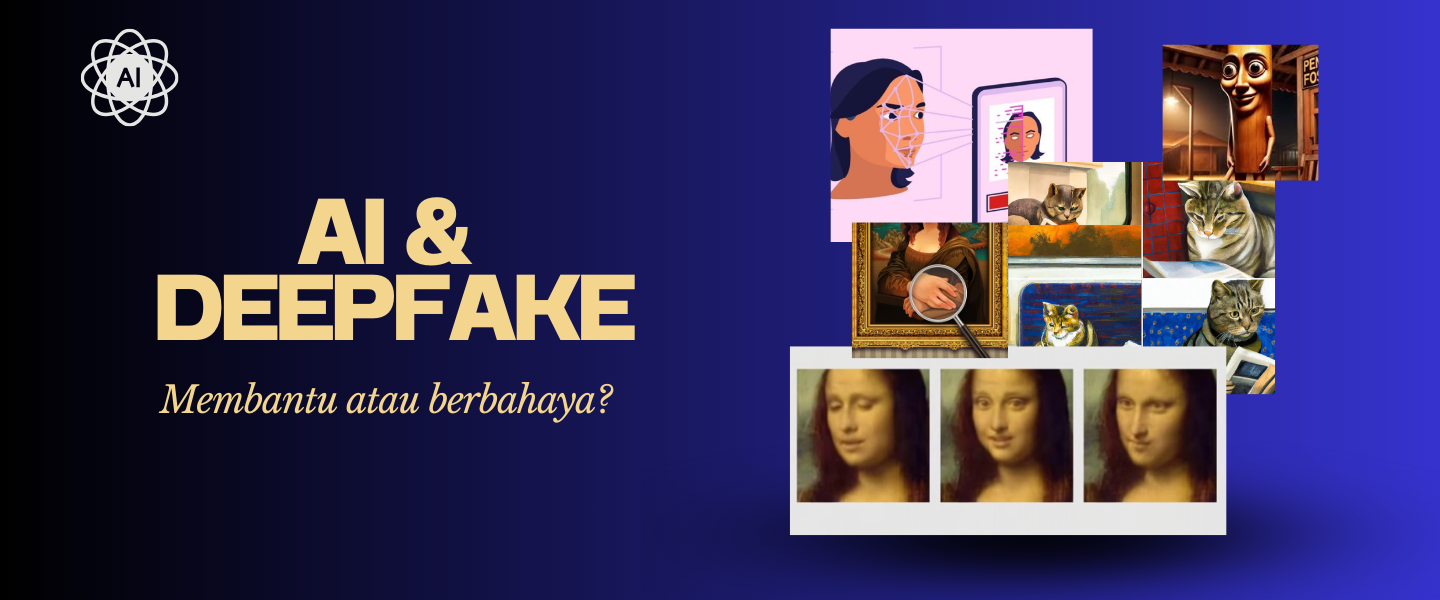
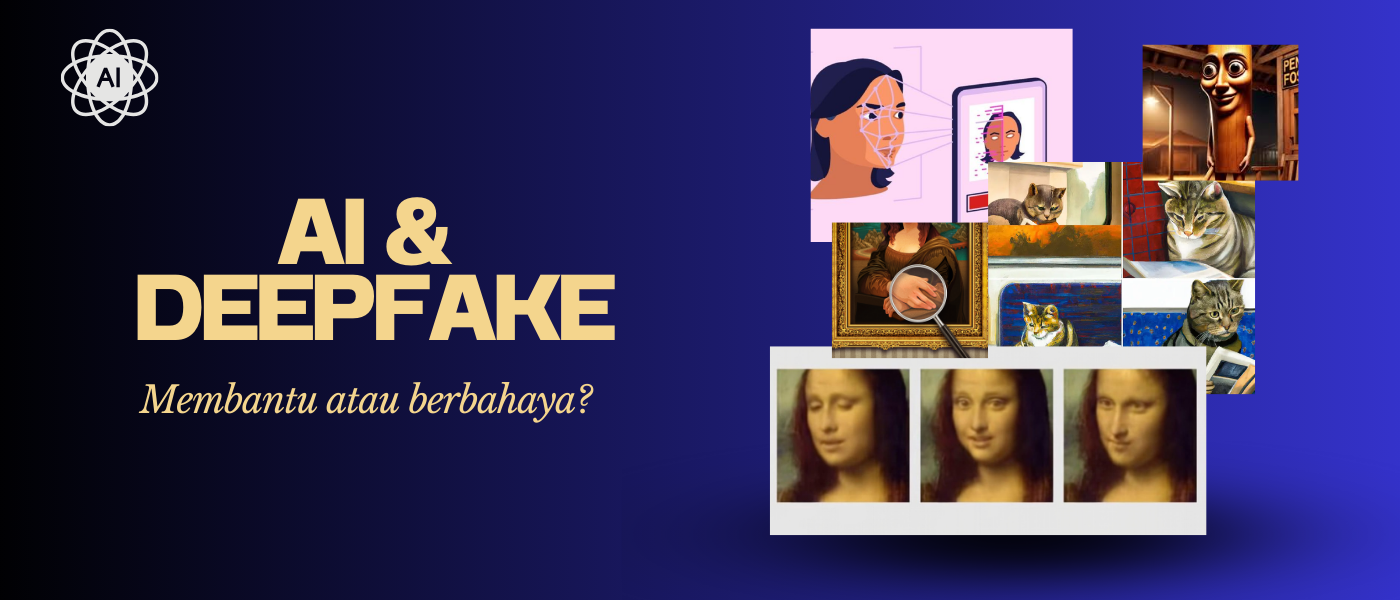
fixed

diff --git a/index.html b/index.html
@@ -2,7 +2,7 @@
 <html lang="en">
 <head>
     <meta charset="UTF-8">
-    <meta name="viewport" content="width=device-width, initial-scale=1.0">
+    <meta name="viewport" content="1440, initial-scale=1.0">
     <title>AI</title>
     <link href="https://cdn.jsdelivr.net/npm/bootstrap@5.0.2/dist/css/bootstrap.min.css" rel="stylesheet" integrity="sha384-EVSTQN3/azprG1Anm3QDgpJLIm9Nao0Yz1ztcQTwFspd3yD65VohhpuuCOmLASjC" crossorigin="anonymous">
     <link href="https://cdn.jsdelivr.net/npm/bootstrap-icons@1.10.5/font/bootstrap-icons.css" rel="stylesheet">
@@ -32,7 +32,7 @@
     </div>
 
     <div class="hero">
-        <img src="AI & deepfake.png" alt="" srcset="">
+        <img src="AI & deepfake.png" alt="" srcset="" style="width: 100%;">
     </div>
 
     <section class="content-section" id="tentang">
@@ -93,7 +93,7 @@
     <section class="content-section" id="solusi">
         <h2 class="section-title">Solusi AI</h2>
         <div class="section-content">
-            <p>Untuk mengatasi risiko penyalahgunaan AI dan deepfake, diperlukan pendekatan multi-faceted yang melibatkan teknologi, regulasi, dan edukasi publik. Berikut beberapa solusi yang dapat diterapkan:</p>
+            <p>Untuk mengatasi risiko penyalahgunaan AI dan deepfake, diperlukan pendekatan multi-aspek yang melibatkan teknologi, regulasi, dan edukasi publik. Berikut beberapa contoh solusi yang dapat diterapkan:</p>
             <ul>
                 <li><strong>Pengembangan Teknologi Deteksi:</strong> Investasi dalam teknologi deteksi deepfake yang dapat mengidentifikasi konten palsu dengan akurasi tinggi.</li>
                 <li><strong>Regulasi dan Kebijakan:</strong> Pemerintah perlu memberlakukan regulasi yang ketat terkait penggunaan AI dan deepfake, termasuk sanksi bagi pelaku penyalahgunaan.</li>
@@ -227,4 +227,10 @@
         });
     </script>
 </body>
+
+<footer class="text-center text-lg-start text-muted" style="background-color: #001427;">
+    <div class="text-center p-4" style="background-color: rgba(0, 0, 0, 0.05);">
+      © 2024 Copyright:
+    </div>
+    </footer>
 </html>
